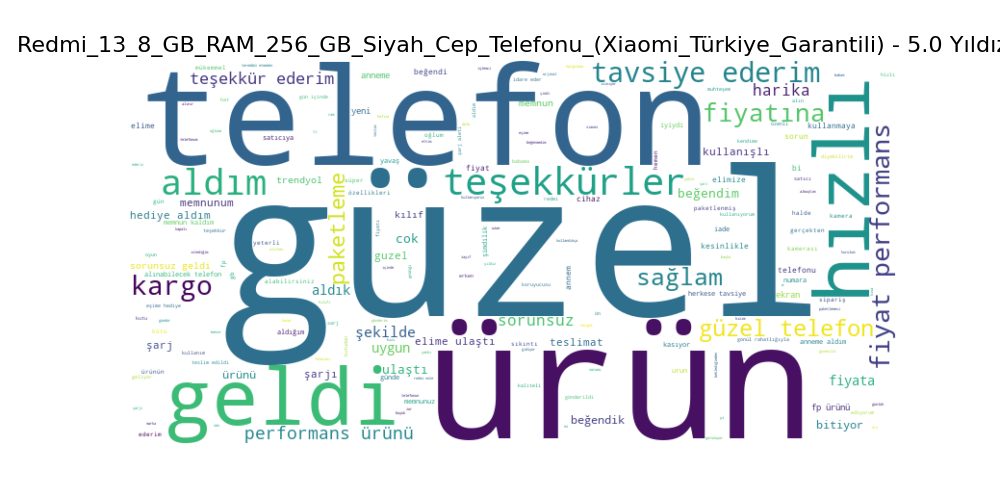
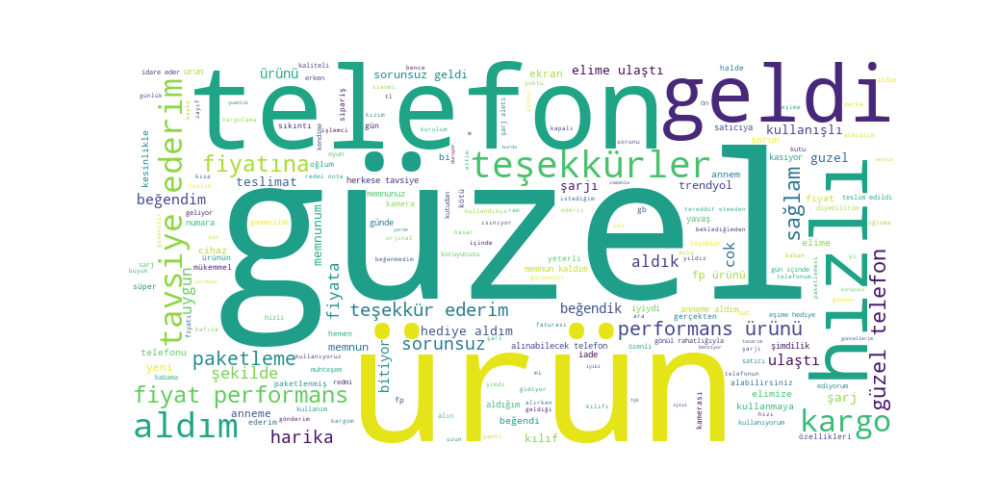
kodlar güncellendi

diff --git a/wordCloudCreator.py b/wordCloudCreator.py
@@ -49,58 +49,101 @@ turkish_stopwords = [
     'þayet', 'þey', 'şayet', 'şey', 'şeyden', 'şeye', 'şeyi', 'şeyler', 'şöyle', 'şu', 'şuna', 'şuncacık', 'şunda',
     'şundan', 'şunlar', 'şunları', 'şunların', 'şunu', 'şunun', 'şura', 'şuracık', 'şuracıkta', 'şurası', 'şöyle'
 ]
+# Kelime ağırlıkları (senin tanımladığın şekilde)
+kelime_agirliklari = {
+    "mükemmel": 2.0, "harika": 1.8, "kaliteli": 1.5, "güzel": 1.0, "iyi": 0.8,
+    "kusursuz": 2.0, "olumlu": 1.7, "memnun": 1.5, "keyifli": 1.4, "uygun": 1.2,
+    "faydalı": 1.6, "beğendim": 1.5, "hızlı": 1.4, "şık": 1.3, "müthiş": 1.9,
+    "özenli": 1.6, "rahat": 1.4, "başarılı": 1.8, "düzgün": 1.2, "dostane": 1.3,
+    "etkileyici": 1.9, "iyi iş": 1.7, "mükemmel hizmet": 2.0, "uyumlu": 1.2,
+    "dayanıklı": 1.5, "mutlu": 1.8, "kalite": 1.6, "kolay": 1.2, "konforlu": 1.4,
+    "zarif": 1.5, "kibar": 1.3, "teşekkür ederim": 1.6, "tatlı": 1.4,
+    "çok teşekkürler": 1.7, "bayıldım": 1.9, "tavsiye ederim": 1.8,
+    "kullanışlı": 1.6, "şık duruyor": 1.5, "zarif duruyor": 1.5,
+    "beğendi": 1.4, "ürün güzel": 1.6, "harika güzeldi": 1.8,
+    "hızlı sağlam": 1.7, "güzel alın": 1.5, "naif": 1.3, "sorunsuz": 1.4,
+    "almıştım beğendi": 1.4, "severek kullanıyorum": 1.6, "aldım uygun": 1.3,
+    "beğendik": 1.4, "mükemmel sevdim": 2.0, "duruyor": 1.0,
+    "elime ulaştı": 1.4, "fiyat performans": 1.6, "alabilirsiniz": 1.5,
+    "özenli göründüğü": 1.6, "geldi rahat": 1.4, "duruşu tatlı": 1.5,
+    "aynısı beğendi": 1.5, "ideal": 1.3, "begendim": 1.4,
+    "kendime alacağım": 1.6, "severek kullanıyor": 1.7, "alın aldırın": 1.5,
+    "ulaştı elime": 1.4, "hızlı ulaştı": 1.5, "kargo hızlıydı": 1.5,
+    "aldım beğenildi": 1.6, "özenle parça": 1.5, "güzell": 1.4,
+    "severek çalışıyor": 1.5, "bayıldımmm": 2.0, "inanılmaz": 1.9,
+    "tavsiye ediyorum": 1.9, "ulaştı öneririm": 1.6, "narin": 1.5,
+    "iyiydi": 1.4, "kalitesi": 1.6, "beyendim": 1.4,
+    "bayıldımmmm": 2.0, "memnun kaldım": 1.7, "almanızı tavsiye": 1.9,
+    "hızlı teslimat": 1.6, "hoşuma gitti": 1.5, "hizli": 1.4, "bayıldımm": 2.0,
+
+    # Negatif kelimeler
+    "kötü": -1.5, "berbat": -2.0, "hasarlı": -1.8, "geç": -1.2, "iade": -1.5,
+    "bozuk": -1.7, "dikkatsiz": -1.4, "uygunsuz": -1.6, "kırık": -1.8, "problemli": -1.5,
+    "yanlış": -1.3, "eksik": -1.7, "yavaş": -1.4, "kalitesiz": -1.8, "hayal kırıklığı": -2.0,
+    "korkunç": -2.0, "fiyasko": -2.0, "sinir bozucu": -1.8, "beğenmedim": -1.5, "rahatsız": -1.4,
+    "yetersiz": -1.6, "gereksiz": -1.3, "saygısız": -1.9, "memnuniyetsiz": -1.8, "kaba": -1.5,
+    "rezalet": -2.0, "pişmanlık": -1.7, "kaos": -1.9, "uygunsuzluk": -1.5, "zorlayıcı": -1.2,
+    "güvensiz": -1.8, "hüsran": -1.9, "yıkık": -1.7, "çirkin": -1.6, "kullanışsız": -1.8
+}
 
 # PostgreSQL bağlantısı
 try:
     conn = psycopg2.connect(
-        dbname="postgres",
-        user="postgres",
-        password="password",
-        host="localhost",
-        port="5432"
+        dbname="postgres", user="postgres",
+        password="password", host="localhost", port="5432"
     )
     print("Bağlantı başarılı!")
 except Exception as e:
     print(f"Bağlantı hatası: {e}")
     exit()
 
-# Tüm yorumları birleştirip WordCloud oluşturma
 try:
     cursor = conn.cursor()
-    cursor.execute("SELECT product_name, review_text FROM product_reviews")  # Tablo adını ve sütunları kontrol et
+    cursor.execute("SELECT product_name, review_text FROM product_reviews")
     rows = cursor.fetchall()
 
-    # WordCloud klasörünü oluştur
     os.makedirs("WordClouds", exist_ok=True)
 
+    # Ürün bazlı yorumları grupla
     yorumlar_dict = {}
     for product_name, yorum in rows:
-        # Geçersiz karakterleri temizle
-        valid_product_name = re.sub(r'[<>:"/\\|?*]', '_', product_name.strip().replace(" ", "_"))
-        if valid_product_name not in yorumlar_dict:
-            yorumlar_dict[valid_product_name] = []
-        yorumlar_dict[valid_product_name].append(yorum)
+        valid_name = re.sub(r'[<>:"/\\|?*]', '_',
+                            product_name.strip().replace(" ", "_"))
+        yorumlar_dict.setdefault(valid_name, []).append(yorum)
 
     for product_name, yorum_listesi in yorumlar_dict.items():
-        birlesik_yorumlar = " ".join(yorum_listesi).lower().translate(str.maketrans('', '', string.punctuation))
-        kelimeler = [kelime for kelime in birlesik_yorumlar.split() if kelime not in turkish_stopwords]
+        # Birleştir, temizle, token'lara böl
+        birleşik = " ".join(yorum_listesi).lower()
+        temiz = birleşik.translate(str.maketrans('', '', string.punctuation))
+        tokens = [w for w in temiz.split() if w not in turkish_stopwords]
 
-        wordcloud = WordCloud(
-            width=800,
-            height=400,
-            background_color="white",
-            contour_width=2,  # Kenarlık kalınlığı
-            contour_color="red"  # Kenarlık rengi
-        ).generate(" ".join(kelimeler))
+        # WordCloud oluştur
+        wc = WordCloud(
+            width=800, height=400, background_color="white",
+            contour_width=2, contour_color="red"
+        ).generate(" ".join(tokens))
 
-        # WordCloud kaydet
+        # WordCloud görselini kaydet
         plt.figure(figsize=(10, 5))
-        plt.imshow(wordcloud, interpolation="bilinear")
+        plt.imshow(wc, interpolation="bilinear")
         plt.axis("off")
-        file_path = f"WordClouds/{product_name}.png"
-        plt.savefig(file_path)
+        path = f"WordClouds/{product_name}.png"
+        plt.savefig(path)
         plt.close()
-        print(f"{file_path} kaydedildi.")
+
+        # Konsola yazdır: kelime, frekans, ağırlık, çarpım
+        print(f"\n'{product_name}' ürünü için kelime ağırlık çarpımları:")
+        print("-" * 60)
+        # wordcloud.words_ : {kelime: frekans (0-1 arası, normalize)}
+        for kelime, freq in sorted(wc.words_.items(),
+                                   key=lambda x: x[1], reverse=True):
+            if kelime in kelime_agirliklari:
+                agirlik = kelime_agirliklari[kelime]
+                carpim = freq * agirlik
+                print(f"{kelime:12} | freq: {freq:.4f} | ağırlık: {agirlik:.2f} | çarpım: {carpim:.4f}")
+
+        print(f"\nWordCloud kaydedildi: {path}")
+
 except Exception as e:
     print(f"İşlem hatası: {e}")
 finally:

diff --git a/wordCloudWeights.py b/wordCloudWeights.py
@@ -49,9 +49,8 @@ turkish_stopwords = ['a', 'acaba', 'acep', 'adamakıllı', 'adeta', 'ait', 'altm
     'þayet', 'þey', 'şayet', 'şey', 'şeyden', 'şeye', 'şeyi', 'şeyler', 'şöyle', 'şu', 'şuna', 'şuncacık', 'şunda',
     'şundan', 'şunlar', 'şunları', 'şunların', 'şunu', 'şunun', 'şura', 'şuracık', 'şuracıkta', 'şurası', 'şöyle']
 
-# Özel kelime listesi ve ağırlıkları
+# Kelime ağırlıkları (senin tanımladığın şekilde)
 kelime_agirliklari = {
-    # Pozitif kelimeler
     "mükemmel": 2.0, "harika": 1.8, "kaliteli": 1.5, "güzel": 1.0, "iyi": 0.8,
     "kusursuz": 2.0, "olumlu": 1.7, "memnun": 1.5, "keyifli": 1.4, "uygun": 1.2,
     "faydalı": 1.6, "beğendim": 1.5, "hızlı": 1.4, "şık": 1.3, "müthiş": 1.9,
@@ -87,37 +86,13 @@ kelime_agirliklari = {
     "güvensiz": -1.8, "hüsran": -1.9, "yıkık": -1.7, "çirkin": -1.6, "kullanışsız": -1.8
 }
 
-
-# Yıldız hesaplama fonksiyonu
-def hesapla_yildiz(toplam_skor):
-    if toplam_skor >= 10:
-        return 5.0
-    elif toplam_skor >= 9:
-        return 4.9
-    elif toplam_skor >= 8:
-        return 4.8
-    elif toplam_skor >= 7:
-        return 4.7
-    elif toplam_skor >= 6:
-        return 4.6
-    elif toplam_skor >= 5:
-        return 4.5
-    elif toplam_skor >= 4:
-        return 4.0
-    elif toplam_skor >= 3:
-        return 3.5
-    elif toplam_skor >= 2:
-        return 3.0
-    elif toplam_skor >= 1:
-        return 2.5
-    elif toplam_skor >= 0:
-        return 2.0
-    elif toplam_skor >= -1:
-        return 1.5
-    elif toplam_skor >= -2:
-        return 1.0
-    else:
-        return 0.5
+# Yeni yıldız hesaplama (yorum sayısını dikkate alan)
+def hesapla_yildiz(toplam_skor, yorum_sayisi):
+    if yorum_sayisi == 0:
+        return 0.0
+    ortalama_skor = toplam_skor / yorum_sayisi
+    normalize_edilmis = max(min((ortalama_skor + 1.5) / 3.0 * 5.0, 5.0), 0.5)
+    return round(normalize_edilmis, 1)
 
 # PostgreSQL bağlantısı
 try:
@@ -135,15 +110,13 @@ except Exception as e:
 
 try:
     cursor = conn.cursor()
-    cursor.execute("SELECT product_name, review_text FROM product_reviews")  # Tablo adını ve sütunları kontrol et
+    cursor.execute("SELECT product_name, review_text FROM product_reviews")
     rows = cursor.fetchall()
 
-    # WordCloud klasörünü oluştur
     os.makedirs("WordClouds", exist_ok=True)
 
     yorumlar_dict = {}
     for product_name, yorum in rows:
-        # Geçersiz karakterleri temizle
         valid_product_name = re.sub(r'[<>:"/\\|?*]', '_', product_name.strip().replace(" ", "_"))
         if valid_product_name not in yorumlar_dict:
             yorumlar_dict[valid_product_name] = []
@@ -153,40 +126,35 @@ try:
         birlesik_yorumlar = " ".join(yorum_listesi).lower().translate(str.maketrans('', '', string.punctuation))
         kelimeler = [kelime for kelime in birlesik_yorumlar.split() if kelime not in turkish_stopwords]
 
-        # Kelime ağırlıklarına göre toplam skor hesapla
-        toplam_skor = 0
-        for kelime in kelimeler:
-            toplam_skor += kelime_agirliklari.get(kelime, 0)  # Kelime ağırlığı varsa ekle, yoksa 0 ekle
-
-        # Toplam skor üzerinden detaylı yıldız hesaplama
-        yildiz = hesapla_yildiz(toplam_skor)
+        toplam_skor = sum(kelime_agirliklari.get(k, 0) for k in kelimeler)
+        yorum_sayisi = len(yorum_listesi)
+        yildiz = hesapla_yildiz(toplam_skor, yorum_sayisi)
 
         # WordCloud oluştur
         wordcloud = WordCloud(
             width=800,
             height=400,
             background_color="white",
-            contour_width=2,  # Kenarlık kalınlığı
-            contour_color="red"  # Kenarlık rengi
+            contour_width=2,
+            contour_color="red"
         ).generate(" ".join(kelimeler))
 
-        # WordCloud kaydet
+        # Kaydet
         plt.figure(figsize=(10, 5))
         plt.imshow(wordcloud, interpolation="bilinear")
         plt.axis("off")
-        plt.title(f"{product_name} - {yildiz:.1f} Yıldız", fontsize=16)  # Yıldız puanını başlığa ekle
-        file_path = f"WordClouds/{product_name}.png"
-        plt.savefig(file_path)
+        plt.title(f"{product_name} - {yildiz} ⭐", fontsize=16)
+        path = f"WordClouds/{product_name}.png"
+        plt.savefig(path)
         plt.close()
-        print(f"{file_path} kaydedildi.")
+        print(f"{path} kaydedildi.")
 
-        # Kelime ağırlıklarını ve yıldız sonucunu konsolda yazdır
-        print(f"\n'{product_name}' için kelime ağırlıkları ve değerlendirme:")
-        print(f"Toplam Skor: {toplam_skor:.2f}")
-        print(f"Yıldız: {yildiz:.1f}")
-        kelime_agirliklari_wordcloud = wordcloud.words_  # WordCloud'daki kelime ve ağırlık sözlüğü
-        for kelime, agirlik in kelime_agirliklari_wordcloud.items():
-            print(f"{kelime}: {agirlik}")
+        # Konsola yaz
+        print(f"\n'{product_name}' için:")
+        print(f"- Yorum Sayısı: {yorum_sayisi}")
+        print(f"- Toplam Skor: {toplam_skor:.2f}")
+        print(f"- Ortalama Skor: {toplam_skor / yorum_sayisi:.2f}" if yorum_sayisi > 0 else "- Ortalama Skor: 0")
+        print(f"- Hesaplanan Yıldız: {yildiz}")
 
 except Exception as e:
     print(f"İşlem hatası: {e}")
